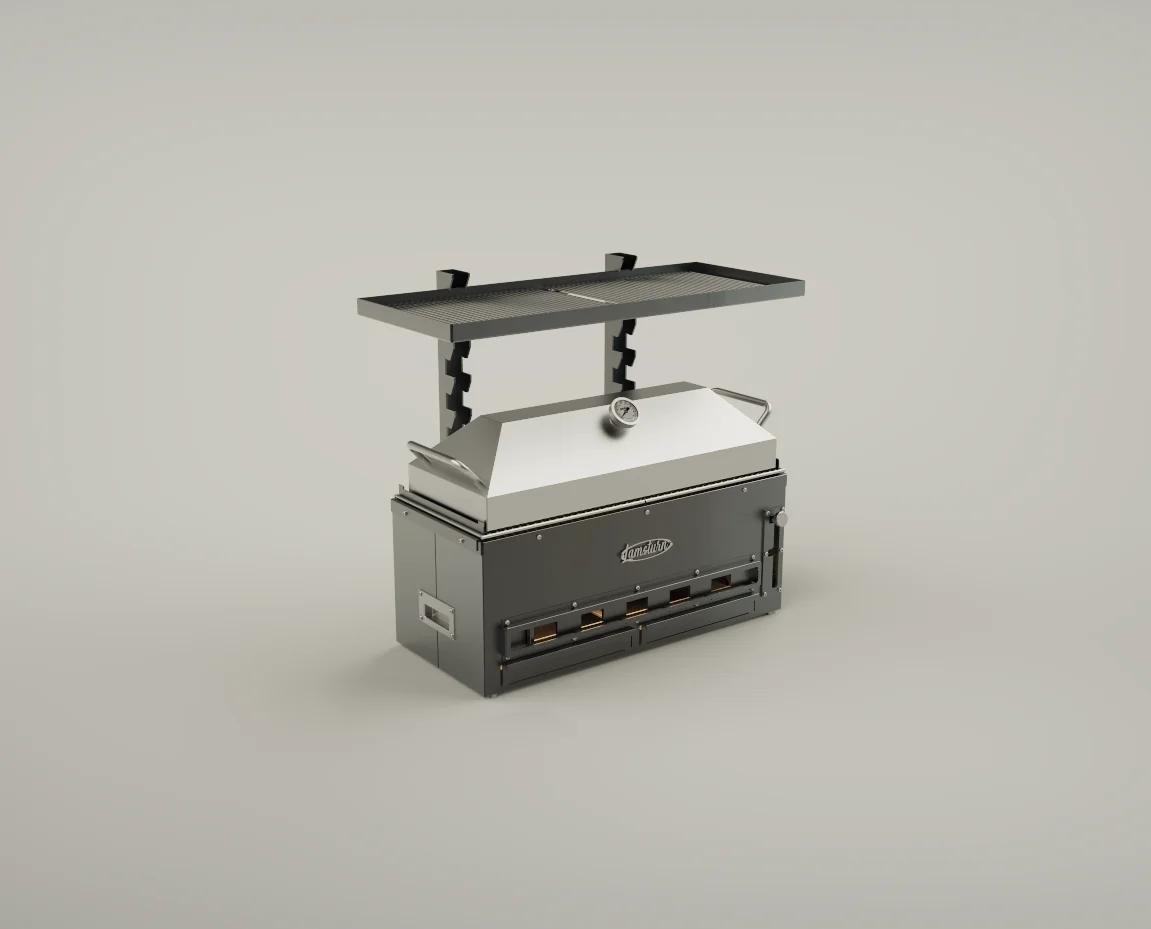
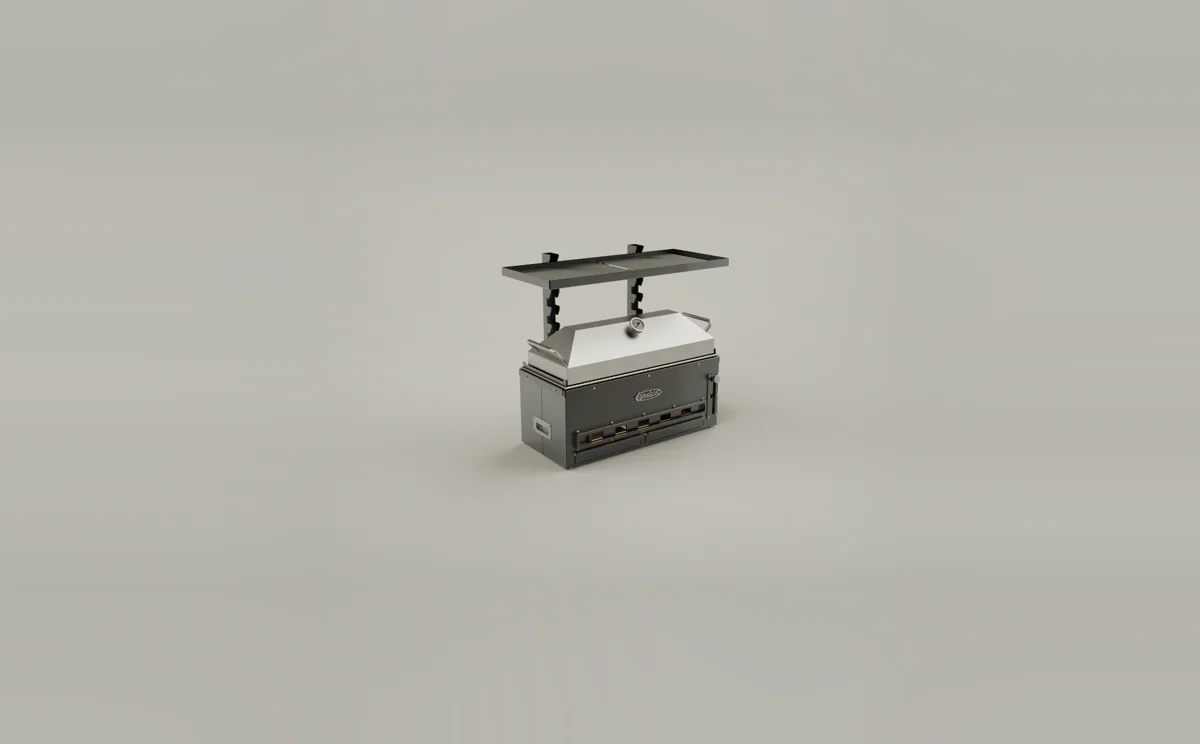
feat: refresh product photos and match the robata framing
Give LGA_D1500_S its own pair in place of the placeholder, replace the
LGA_1800_T and LGC_380 shots, and rebuild both LGY_610_D300 photos from
the full-size render so the product sits at the same scale as its D400
sibling instead of zoomed in.

Changed region(s): [[0.3041, 0.2473, 0.6994, 0.7728]]

diff --git a/index.html b/index.html
@@ -1212,7 +1212,7 @@ input,select,textarea{font-family:Archivo,system-ui,sans-serif}
       {"c":"LGA_J900_T","img":"assets/photos/LGA_J900_T.webp","img2":"assets/photos/LGA_J900_T_2.webp","n":"GEAR · TABLETOP","s":"W900×D750×H920","g":"W378×D495 ×2","w":"120 KG","detail":{"slug":"lga-j900-t","page":"j900","category":"Professional Asado Charcoal Grill","title":"LGA_J900_T Asado Grill | Lamsturn","description":"Gear-driven tabletop charcoal grill handcrafted in South Korea with precision grate-height control for professional kitchens.","material":"Stainless steel 304","fuel":"Charcoal","manufacturing":"Made to order in South Korea","width":900,"depth":750,"height":920,"weight":120,"grillArea":"W378 × D495 mm"}},
       {"c":"LGA_J1310_T","img":"assets/photos/LGA_J1310_T.webp","img2":"assets/photos/LGA_J1310_T_2.webp","n":"GEAR · TABLETOP","s":"W1310×D750×H920","g":"W378×D495 ×3","w":"200 KG"},
       {"c":"LGA_D1500_T","img":"assets/photos/LGA_D1500_T.webp","img2":"assets/photos/LGA_D1500_T_2.webp","n":"GEAR · TABLETOP","s":"W1500×D836×H1000","g":"W444×D670 ×3","w":"350 KG"},
-      {"c":"LGA_D1500_S","n":"GEAR · STAND","s":"W1500×D836×H1800","g":"W444×D670 ×3","w":"460 KG"},
+      {"c":"LGA_D1500_S","img":"assets/photos/LGA_D1500_S.webp","img2":"assets/photos/LGA_D1500_S_2.webp","n":"GEAR · STAND","s":"W1500×D836×H1800","g":"W444×D670 ×3","w":"460 KG"},
       {"c":"LGA_C1700_T","img":"assets/photos/LGA_C1700_T.webp","img2":"assets/photos/LGA_C1700_T_2.webp","n":"GEAR · TABLETOP","s":"W1700×D850×H1023","g":"W494×D607","w":"324 KG"}
     ],
     "robata": [

diff --git a/CLAUDE.md b/CLAUDE.md
@@ -157,9 +157,7 @@ A filled slot looks like this:
 `image-slot.js` is only needed while empty placeholders remain. Once every slot has a real image,
 it and the `<x-import … image-slot …>` wrappers can be dropped.
 
-Unused asset files (kept intentionally): `assets/photos/LGA_D1500_S.webp` (the owner asked on
-2026-08-11 for that card to show the "photography in progress" placeholder instead — re-wire
-the `img` field when the final photo is decided), `assets/photos/b-p5.webp` (oven — no oven card),
+Unused asset files (kept intentionally): `assets/photos/b-p5.webp` (oven — no oven card),
 `assets/lamsturn-ci.svg` (dark-background variant; the site is dark so it uses `-white`),
 `assets/michelin-face.png`.
 
